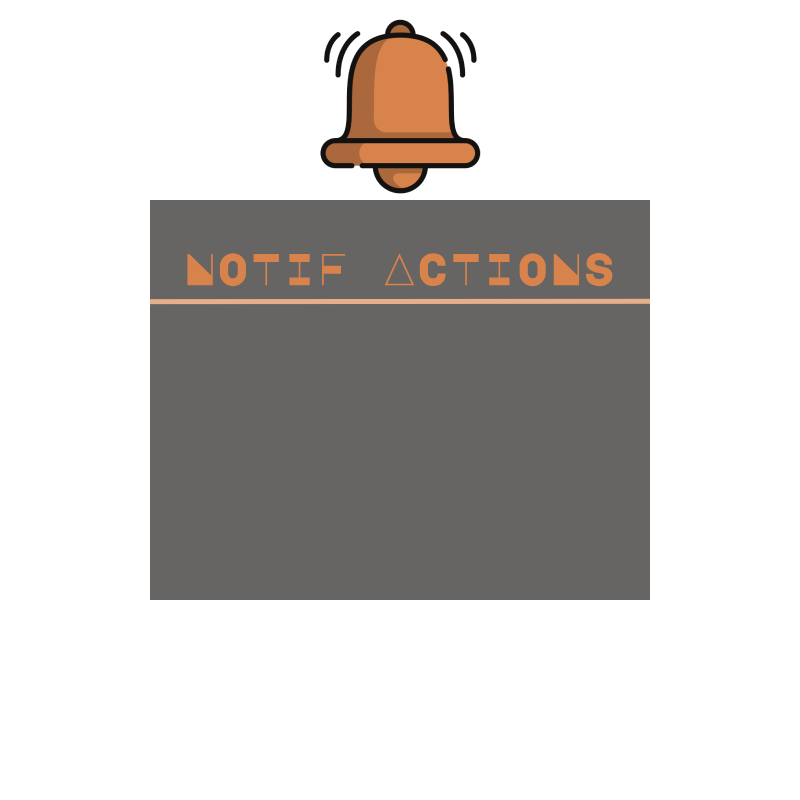
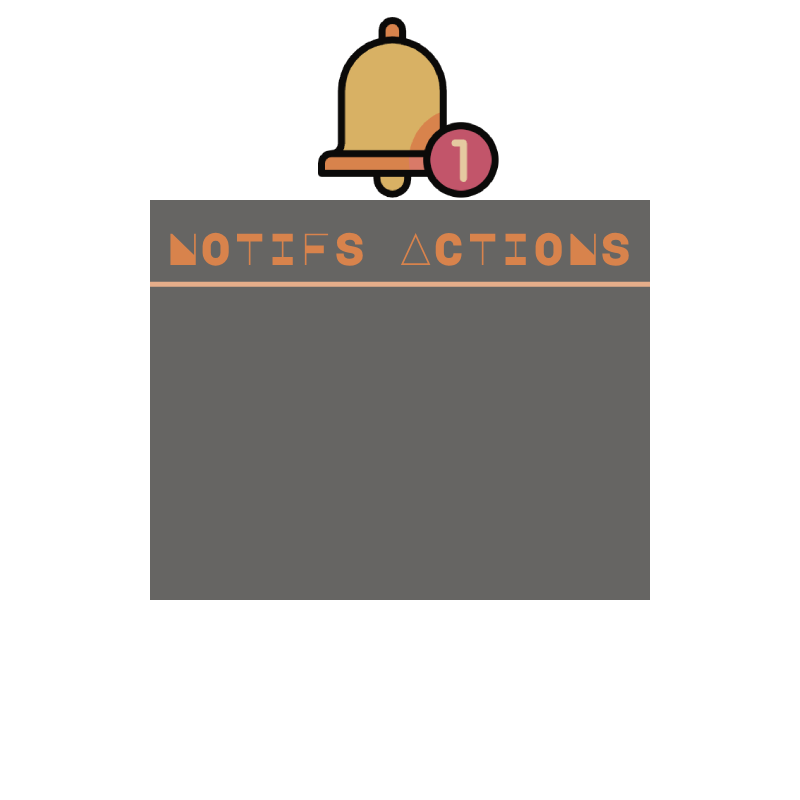
More refinements

Changed region(s): [[0.1875, 0.2812, 0.8125, 0.4062], [0.375, 0.0, 0.625, 0.25]]

diff --git a/waybar/style.css b/waybar/style.css
@@ -10,7 +10,7 @@
 @define-color bg            #141210;
 @define-color bg-alt        #322d28;
 @define-color fg            #e5c9a0;
-@define-color fg-inverse    #141210;
+@define-color fg-inverse    #0b0a09;
 @define-color red           #c06c5c;
 @define-color green         #78997a;
 @define-color yellow        #c09d59;
